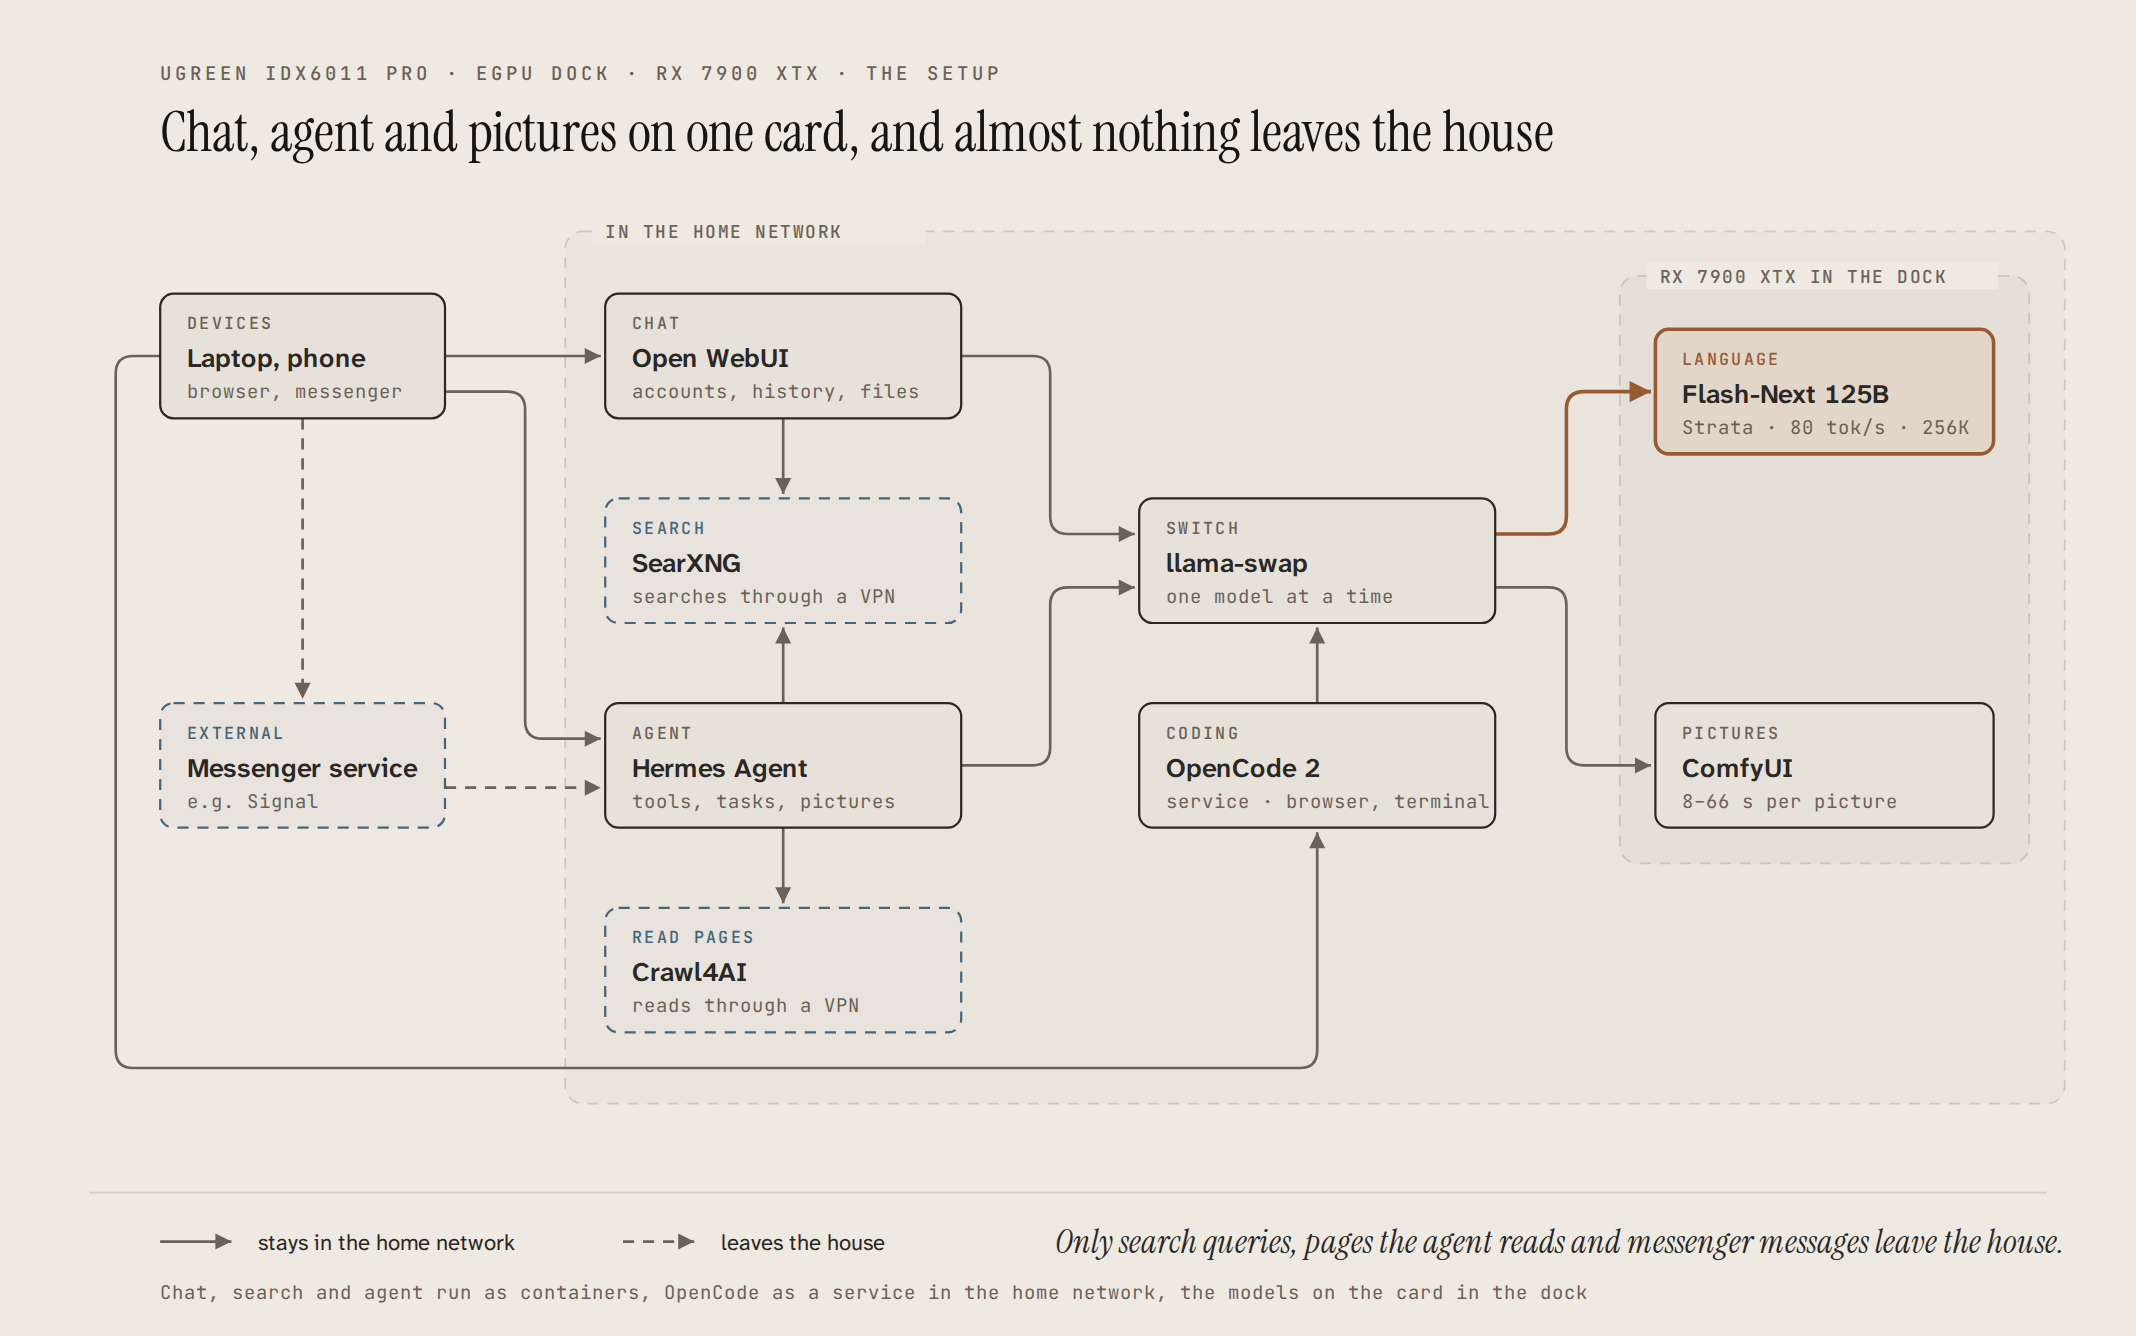
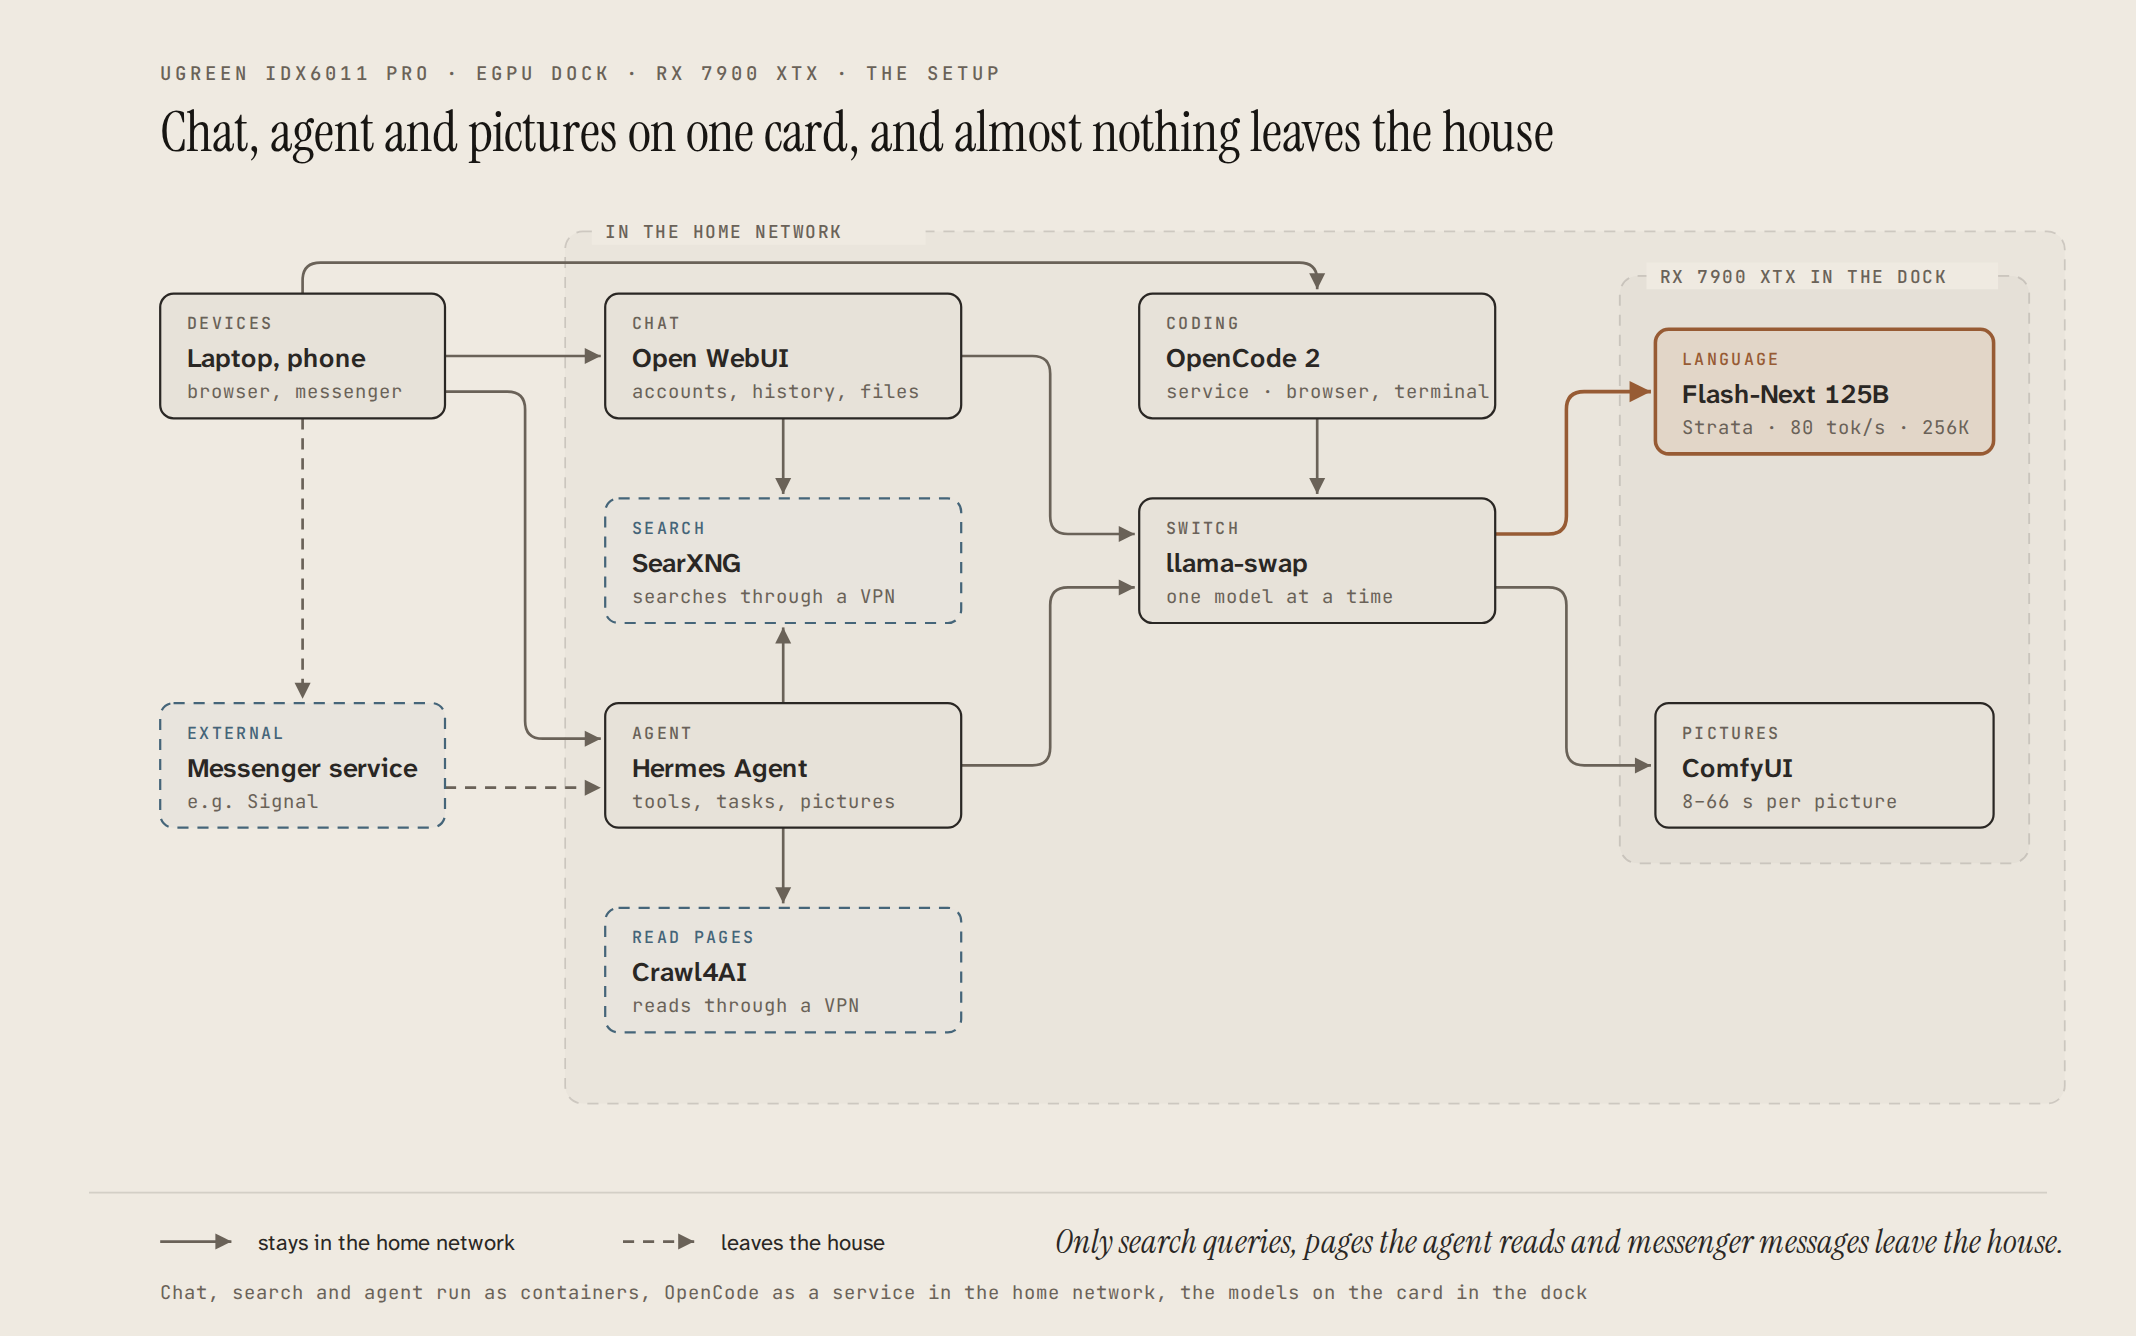
Setup chart: OpenCode 2 above llama-swap, on the row of Open WebUI, arrow from the devices across the top

diff --git a/bilder/html/aufbau-de.html b/bilder/html/aufbau-de.html
@@ -33,13 +33,13 @@
       <path d="M 200,176 H 228 Q 236,176 236,184 V 324 Q 236,332 244,332 H 270" fill="none" stroke="#6a6258" stroke-width="1.2" marker-end="url(#pf-de)"/>
       <path d="M 136,188 V 314" fill="none" stroke="#6a6258" stroke-width="1.2" stroke-dasharray="5,4" marker-end="url(#pf-de)"/>
       <path d="M 200,354 H 270" fill="none" stroke="#6a6258" stroke-width="1.2" stroke-dasharray="5,4" marker-end="url(#pf-de)"/>
-      <path d="M 72,160 H 60 Q 52,160 52,168 V 472 Q 52,480 60,480 H 584 Q 592,480 592,472 V 374" fill="none" stroke="#6a6258" stroke-width="1.2" marker-end="url(#pf-de)"/>
+      <path d="M 136,132 V 126 Q 136,118 144,118 H 584 Q 592,118 592,126 V 130" fill="none" stroke="#6a6258" stroke-width="1.2" marker-end="url(#pf-de)"/>
       <path d="M 352,188 V 222" fill="none" stroke="#6a6258" stroke-width="1.2" marker-end="url(#pf-de)"/>
       <path d="M 352,316 V 282" fill="none" stroke="#6a6258" stroke-width="1.2" marker-end="url(#pf-de)"/>
       <path d="M 352,372 V 406" fill="none" stroke="#6a6258" stroke-width="1.2" marker-end="url(#pf-de)"/>
       <path d="M 432,160 H 464 Q 472,160 472,168 V 232 Q 472,240 480,240 H 510" fill="none" stroke="#6a6258" stroke-width="1.2" marker-end="url(#pf-de)"/>
       <path d="M 432,344 H 464 Q 472,344 472,336 V 272 Q 472,264 480,264 H 510" fill="none" stroke="#6a6258" stroke-width="1.2" marker-end="url(#pf-de)"/>
-      <path d="M 592,316 V 282" fill="none" stroke="#6a6258" stroke-width="1.2" marker-end="url(#pf-de)"/>
+      <path d="M 592,188 V 222" fill="none" stroke="#6a6258" stroke-width="1.2" marker-end="url(#pf-de)"/>
       <path d="M 672,240 H 696 Q 704,240 704,232 V 184 Q 704,176 712,176 H 742" fill="none" stroke="#975b34" stroke-width="1.6" marker-end="url(#pf-de-a)"/>
       <path d="M 672,264 H 696 Q 704,264 704,272 V 336 Q 704,344 712,344 H 742" fill="none" stroke="#6a6258" stroke-width="1.2" marker-end="url(#pf-de)"/>
       <rect x="72" y="132" width="128" height="56" rx="6" fill="#efeae1"/>
@@ -52,11 +52,11 @@
       <text x="84.0" y="332.0" fill="#456579" font-size="7.5" font-family="'JetBrains Mono', Consolas, monospace" font-weight="500" letter-spacing="0.14em">EXTERN</text>
       <text x="84.0" y="349.0" fill="#2a2724" font-size="12" font-family="'Atkinson Hyperlegible Next', 'Segoe UI', sans-serif" font-weight="600">Messenger-Dienst</text>
       <text x="84.0" y="363.0" fill="#6a6258" font-size="8.5" font-family="'JetBrains Mono', Consolas, monospace">z. B. Signal</text>
-      <rect x="512" y="316" width="160" height="56" rx="6" fill="#efeae1"/>
-      <rect x="512" y="316" width="160" height="56" rx="6" fill="#2a2724" fill-opacity="0.04" stroke="#2a2724" stroke-width="1"/>
-      <text x="524.0" y="332.0" fill="#6a6258" font-size="7.5" font-family="'JetBrains Mono', Consolas, monospace" font-weight="500" letter-spacing="0.14em">PROGRAMMIEREN</text>
-      <text x="524.0" y="349.0" fill="#2a2724" font-size="12" font-family="'Atkinson Hyperlegible Next', 'Segoe UI', sans-serif" font-weight="600">OpenCode 2</text>
-      <text x="524.0" y="363.0" fill="#6a6258" font-size="8.5" font-family="'JetBrains Mono', Consolas, monospace">Dienst · Browser, Terminal</text>
+      <rect x="512" y="132" width="160" height="56" rx="6" fill="#efeae1"/>
+      <rect x="512" y="132" width="160" height="56" rx="6" fill="#2a2724" fill-opacity="0.04" stroke="#2a2724" stroke-width="1"/>
+      <text x="524.0" y="148.0" fill="#6a6258" font-size="7.5" font-family="'JetBrains Mono', Consolas, monospace" font-weight="500" letter-spacing="0.14em">PROGRAMMIEREN</text>
+      <text x="524.0" y="165.0" fill="#2a2724" font-size="12" font-family="'Atkinson Hyperlegible Next', 'Segoe UI', sans-serif" font-weight="600">OpenCode 2</text>
+      <text x="524.0" y="179.0" fill="#6a6258" font-size="8.5" font-family="'JetBrains Mono', Consolas, monospace">Dienst · Browser, Terminal</text>
       <rect x="272" y="132" width="160" height="56" rx="6" fill="#efeae1"/>
       <rect x="272" y="132" width="160" height="56" rx="6" fill="#2a2724" fill-opacity="0.04" stroke="#2a2724" stroke-width="1"/>
       <text x="284.0" y="148.0" fill="#6a6258" font-size="7.5" font-family="'JetBrains Mono', Consolas, monospace" font-weight="500" letter-spacing="0.14em">CHAT</text>

diff --git a/bilder/html/aufbau-en.html b/bilder/html/aufbau-en.html
@@ -33,13 +33,13 @@
       <path d="M 200,176 H 228 Q 236,176 236,184 V 324 Q 236,332 244,332 H 270" fill="none" stroke="#6a6258" stroke-width="1.2" marker-end="url(#pf-en)"/>
       <path d="M 136,188 V 314" fill="none" stroke="#6a6258" stroke-width="1.2" stroke-dasharray="5,4" marker-end="url(#pf-en)"/>
       <path d="M 200,354 H 270" fill="none" stroke="#6a6258" stroke-width="1.2" stroke-dasharray="5,4" marker-end="url(#pf-en)"/>
-      <path d="M 72,160 H 60 Q 52,160 52,168 V 472 Q 52,480 60,480 H 584 Q 592,480 592,472 V 374" fill="none" stroke="#6a6258" stroke-width="1.2" marker-end="url(#pf-en)"/>
+      <path d="M 136,132 V 126 Q 136,118 144,118 H 584 Q 592,118 592,126 V 130" fill="none" stroke="#6a6258" stroke-width="1.2" marker-end="url(#pf-en)"/>
       <path d="M 352,188 V 222" fill="none" stroke="#6a6258" stroke-width="1.2" marker-end="url(#pf-en)"/>
       <path d="M 352,316 V 282" fill="none" stroke="#6a6258" stroke-width="1.2" marker-end="url(#pf-en)"/>
       <path d="M 352,372 V 406" fill="none" stroke="#6a6258" stroke-width="1.2" marker-end="url(#pf-en)"/>
       <path d="M 432,160 H 464 Q 472,160 472,168 V 232 Q 472,240 480,240 H 510" fill="none" stroke="#6a6258" stroke-width="1.2" marker-end="url(#pf-en)"/>
       <path d="M 432,344 H 464 Q 472,344 472,336 V 272 Q 472,264 480,264 H 510" fill="none" stroke="#6a6258" stroke-width="1.2" marker-end="url(#pf-en)"/>
-      <path d="M 592,316 V 282" fill="none" stroke="#6a6258" stroke-width="1.2" marker-end="url(#pf-en)"/>
+      <path d="M 592,188 V 222" fill="none" stroke="#6a6258" stroke-width="1.2" marker-end="url(#pf-en)"/>
       <path d="M 672,240 H 696 Q 704,240 704,232 V 184 Q 704,176 712,176 H 742" fill="none" stroke="#975b34" stroke-width="1.6" marker-end="url(#pf-en-a)"/>
       <path d="M 672,264 H 696 Q 704,264 704,272 V 336 Q 704,344 712,344 H 742" fill="none" stroke="#6a6258" stroke-width="1.2" marker-end="url(#pf-en)"/>
       <rect x="72" y="132" width="128" height="56" rx="6" fill="#efeae1"/>
@@ -52,11 +52,11 @@
       <text x="84.0" y="332.0" fill="#456579" font-size="7.5" font-family="'JetBrains Mono', Consolas, monospace" font-weight="500" letter-spacing="0.14em">EXTERNAL</text>
       <text x="84.0" y="349.0" fill="#2a2724" font-size="12" font-family="'Atkinson Hyperlegible Next', 'Segoe UI', sans-serif" font-weight="600">Messenger service</text>
       <text x="84.0" y="363.0" fill="#6a6258" font-size="8.5" font-family="'JetBrains Mono', Consolas, monospace">e.g. Signal</text>
-      <rect x="512" y="316" width="160" height="56" rx="6" fill="#efeae1"/>
-      <rect x="512" y="316" width="160" height="56" rx="6" fill="#2a2724" fill-opacity="0.04" stroke="#2a2724" stroke-width="1"/>
-      <text x="524.0" y="332.0" fill="#6a6258" font-size="7.5" font-family="'JetBrains Mono', Consolas, monospace" font-weight="500" letter-spacing="0.14em">CODING</text>
-      <text x="524.0" y="349.0" fill="#2a2724" font-size="12" font-family="'Atkinson Hyperlegible Next', 'Segoe UI', sans-serif" font-weight="600">OpenCode 2</text>
-      <text x="524.0" y="363.0" fill="#6a6258" font-size="8.5" font-family="'JetBrains Mono', Consolas, monospace">service · browser, terminal</text>
+      <rect x="512" y="132" width="160" height="56" rx="6" fill="#efeae1"/>
+      <rect x="512" y="132" width="160" height="56" rx="6" fill="#2a2724" fill-opacity="0.04" stroke="#2a2724" stroke-width="1"/>
+      <text x="524.0" y="148.0" fill="#6a6258" font-size="7.5" font-family="'JetBrains Mono', Consolas, monospace" font-weight="500" letter-spacing="0.14em">CODING</text>
+      <text x="524.0" y="165.0" fill="#2a2724" font-size="12" font-family="'Atkinson Hyperlegible Next', 'Segoe UI', sans-serif" font-weight="600">OpenCode 2</text>
+      <text x="524.0" y="179.0" fill="#6a6258" font-size="8.5" font-family="'JetBrains Mono', Consolas, monospace">service · browser, terminal</text>
       <rect x="272" y="132" width="160" height="56" rx="6" fill="#efeae1"/>
       <rect x="272" y="132" width="160" height="56" rx="6" fill="#2a2724" fill-opacity="0.04" stroke="#2a2724" stroke-width="1"/>
       <text x="284.0" y="148.0" fill="#6a6258" font-size="7.5" font-family="'JetBrains Mono', Consolas, monospace" font-weight="500" letter-spacing="0.14em">CHAT</text>

diff --git a/messen/diagramme.py b/messen/diagramme.py
@@ -1160,18 +1160,18 @@ def aufbau(d, sp):
     pfeil(f"M 200,{r1 + 44} H 228 Q 236,{r1 + 44} 236,{r1 + 52} V {r3 + 8} Q 236,{r3 + 16} 244,{r3 + 16} H 270")   # Geräte -> Hermes direkt (Browser, im Heimnetz)
     pfeil(f"M 136,{r1 + 56} V {r3 - 2}", gestrichelt=True)                                              # Geräte -> Messenger-Dienst
     pfeil(f"M 200,{r3 + 38} H 270", gestrichelt=True)                                                   # Messenger-Dienst -> Hermes
-    pfeil(f"M 72,{r1 + 28} H 60 Q 52,{r1 + 28} 52,{r1 + 36} V {r4 + 64} Q 52,{r4 + 72} 60,{r4 + 72} H 584 Q 592,{r4 + 72} 592,{r4 + 64} V {r3 + 58}")   # Geräte -> OpenCode 2 (Dienst im Heimnetz seit 22.11.2026), links außen und unten herum
+    pfeil(f"M 136,{r1} V {r1 - 6} Q 136,{r1 - 14} 144,{r1 - 14} H 584 Q 592,{r1 - 14} 592,{r1 - 6} V {r1 - 2}")   # Geräte -> OpenCode 2 (Dienst im Heimnetz seit 22.11.2026), oben herum (Frank 22.11.2026)
     pfeil(f"M 352,{r1 + 56} V {r2 - 2}")                                                                # Open WebUI -> SearXNG
     pfeil(f"M 352,{r3} V {r2 + 58}")                                                                    # Hermes -> SearXNG
     pfeil(f"M 352,{r3 + 56} V {r4 - 2}")                                                                # Hermes -> Crawl4AI, direkt darunter
     pfeil(f"M 432,{r1 + 28} H 464 Q 472,{r1 + 28} 472,{r1 + 36} V {r2 + 8} Q 472,{r2 + 16} 480,{r2 + 16} H 510")   # Open WebUI -> llama-swap
     pfeil(f"M 432,{r3 + 28} H 464 Q 472,{r3 + 28} 472,{r3 + 20} V {r2 + 48} Q 472,{r2 + 40} 480,{r2 + 40} H 510")  # Hermes -> llama-swap
-    pfeil(f"M 592,{r3} V {r2 + 58}")                                                                    # OpenCode 2 -> llama-swap, direkt darüber (Zeile von Hermes und ComfyUI, Frank 22.11.2026)
+    pfeil(f"M 592,{r1 + 56} V {r2 - 2}")                                                                    # OpenCode 2 -> llama-swap, von oben (Zeile von Open WebUI, Frank 22.11.2026)
     pfeil(f"M 672,{r2 + 16} H 696 Q 704,{r2 + 16} 704,{r2 + 8} V 184 Q 704,176 712,176 H 742", fokus=True)        # llama-swap -> Sprachmodell
     pfeil(f"M 672,{r2 + 40} H 696 Q 704,{r2 + 40} 704,{r2 + 48} V {r3 + 20} Q 704,{r3 + 28} 712,{r3 + 28} H 742")  # llama-swap -> ComfyUI
     knoten(A_, r1, T("Geräte", "Devices"), T("Laptop, Handy", "Laptop, phone"), T("Browser, Messenger", "browser, messenger"), w=128)
     knoten(A_, r3, T("extern", "external"), T("Messenger-Dienst", "Messenger service"), T("z. B. Signal", "e.g. Signal"), "extern", w=128)
-    knoten(C_, r3, T("Programmieren", "Coding"), "OpenCode 2", T("Dienst · Browser, Terminal", "service · browser, terminal"))
+    knoten(C_, r1, T("Programmieren", "Coding"), "OpenCode 2", T("Dienst · Browser, Terminal", "service · browser, terminal"))
     knoten(B_, r1, "Chat", "Open WebUI", T("Konten, Verlauf, Dateien", "accounts, history, files"))
     knoten(B_, r2, T("Suche", "Search"), "SearXNG", T("sucht über ein VPN im Netz", "searches through a VPN"), "extern")
     knoten(B_, r3, "Agent", "Hermes Agent", T("Werkzeuge, Aufgaben, Bilder", "tools, tasks, pictures"))
